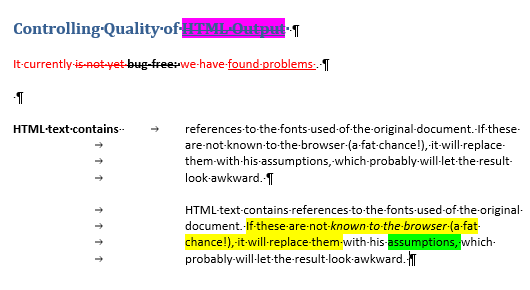
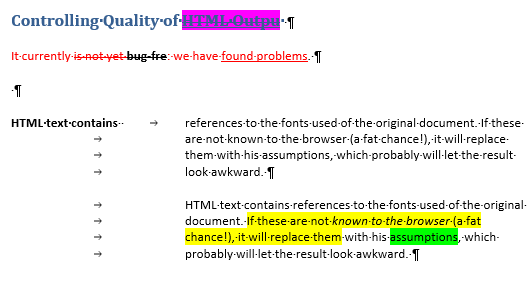
update readme: fixed text format issue

diff --git a/README.md b/README.md
@@ -6,7 +6,9 @@
 ## Features
 
 - [x] Rebuild page layout in docx
-- [x] Parse and re-create text format, e.g. bold, italic, color, highlight, underline, strike-through-line (single strike only)
+- [x] Parse and re-create text format, e.g. font style, highlight, underline, strike
+    - [x] highlight, underline converted from docx
+    - [x] highlight, underline applied from PDF comments
 - [ ] Parse and re-create list style
 - [ ] Parse and re-create table
 
@@ -40,7 +42,7 @@ docx.save(docx_file)
 
 ### Text format
 
-It's able to re-build common text format, e.g. font color, bold, italic, highlight, and their combinations. However, there're still deviations existed in detail, e.g. color of underline (see words `HTML Output`), the applied range of text format (see words `bug-free`, `assumptions`).
+It's able to re-build common text format, e.g. font color, bold, italic, highlight, and their combinations. However, there're still deviations existed in detail, e.g. color of underline (see words `HTML Output`).
 
 - PDF
 
